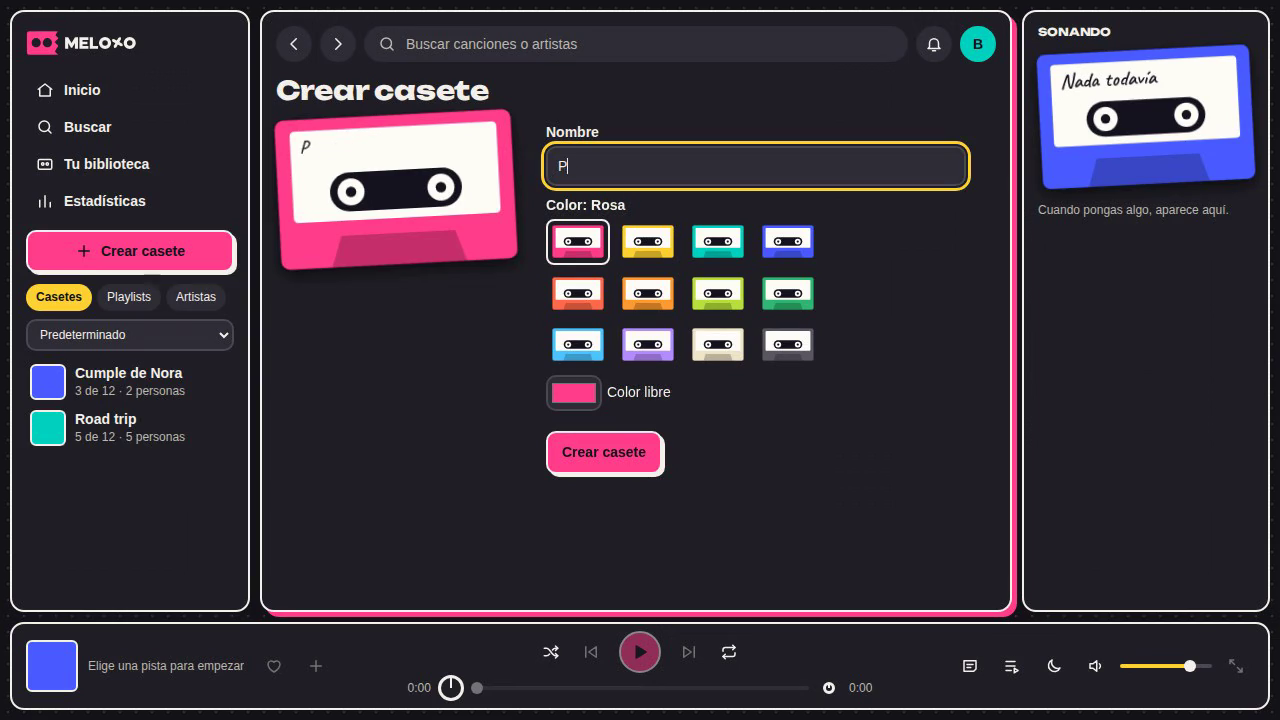
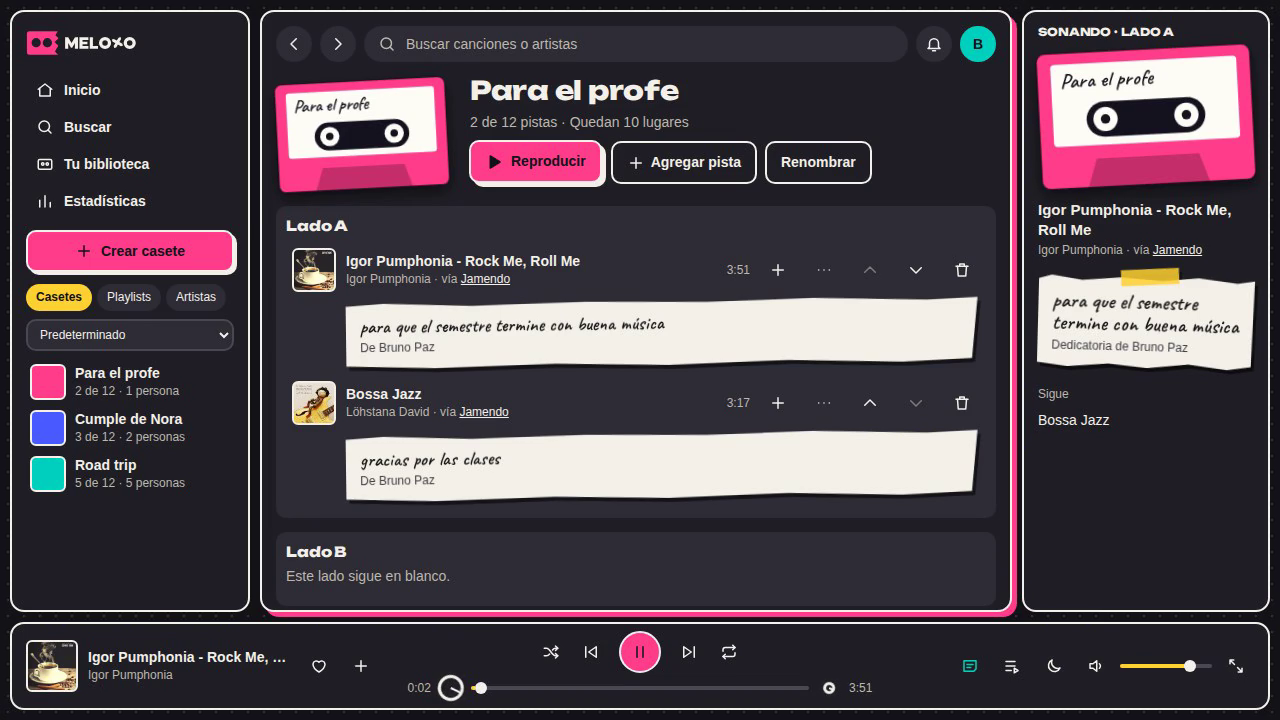
fix(presentacion): fotograma de la demo con el casete sonando

diff --git a/docs/presentacion/capturas/README.md b/docs/presentacion/capturas/README.md
@@ -1,6 +1,6 @@
 # Capturas y video de demo
 
-Generan las imágenes reales de la app que usa la presentación. Salida en [`../assets/`](../assets): `cap-inicio.png`, `cap-casete.png`, `cap-reproductor.png` (1600×900 a doble densidad), `demo.mp4` (1280×720, sin audio) y `demo-fotograma.png` (segundo 3 del video).
+Generan las imágenes reales de la app que usa la presentación. Salida en [`../assets/`](../assets): `cap-inicio.png`, `cap-casete.png`, `cap-reproductor.png` (1600×900 a doble densidad), `demo.mp4` (1280×720, sin audio) y `demo-fotograma.png` (segundo 22 del video: casete "Para el profe" con sus dos pistas y dedicatorias, sonando).
 
 ## Requisitos
 
@@ -23,7 +23,7 @@ Después, desde `docs/presentacion/`, convierte con los binarios de `ffmpeg-stat
 ```bash
 F=$(node -p "require('ffmpeg-static')"); P=$(node -p "require('ffprobe-static').path")
 $F -y -i assets/demo.webm -c:v libx264 -pix_fmt yuv420p -an assets/demo.mp4
-$F -y -ss 3 -i assets/demo.mp4 -frames:v 1 assets/demo-fotograma.png
+$F -y -ss 22 -i assets/demo.mp4 -frames:v 1 assets/demo-fotograma.png
 $P -v error -show_entries stream=codec_name:format=duration,size -of default=nw=1 assets/demo.mp4
 ```
 
